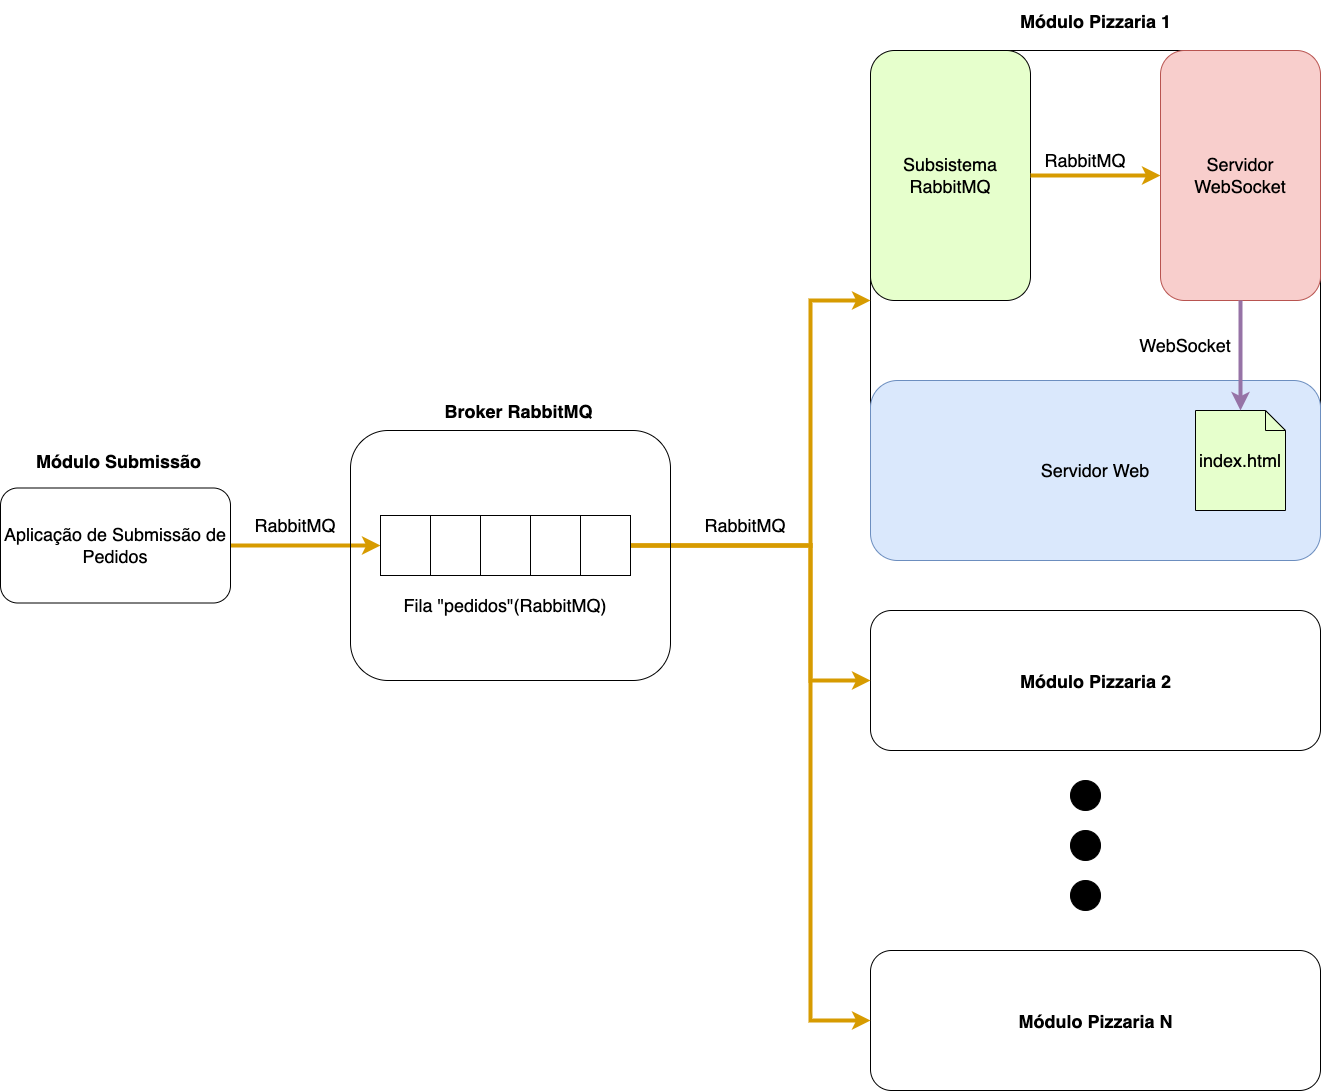
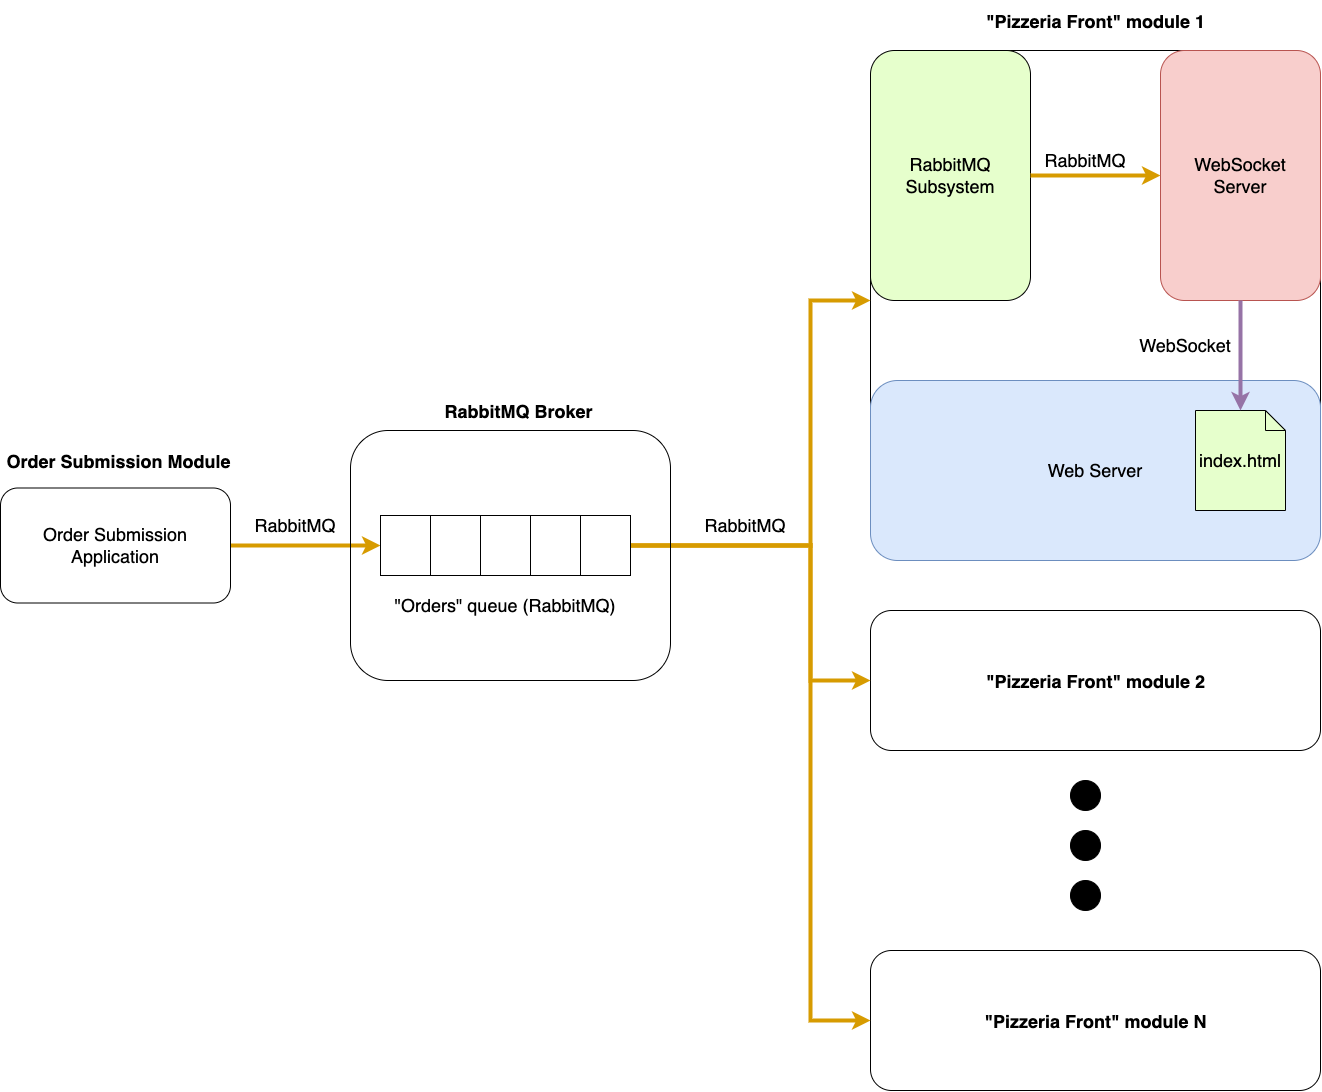
README.md translation

diff --git a/index.js b/index.js
@@ -41,7 +41,7 @@ amqp.connect(`amqp://${BROKER_ADDRESS}`, (err0, conn) => {
             const pedido = JSON.parse(msg.content.toString());
 
             console.log(pedido);
-            sendMessageToClients(wss, `ALERTA: PEDIDO DE UMA PIZZA ${pedido.sabor}, PARA ENTREGA NO ENDEREÇO ${pedido.endereco}`);
+            sendMessageToClients(wss, `ALERT: ORDER OF A PIZZA WITH FLAVOR ${pedido.sabor}, TO BE DELIVERED AT ${pedido.endereco}`);
         }, {
             noAck: true,
         });

diff --git a/public/index.html b/public/index.html
@@ -9,7 +9,7 @@
 </head>
 <body>
     <div class="container">
-        <h3>Painel de notificação de pedidos</h3>
+        <h3>Order notification panel</h3>
         <div id="alertBox" name="alertBox" class="alert-box">
             <div id="alertMsg" name="alertMsg"></div>
         </div>

diff --git a/README.md b/README.md
@@ -1,47 +1,47 @@
-# Rabbit Pizza (módulo Pizzaria)
+# Rabbit Pizza (Pizzeria Front module)
 
-![Licença](https://img.shields.io/badge/license-MIT-brightgreen)
+![License](https://img.shields.io/badge/license-MIT-brightgreen)
 
 ## Sobre
 
-<p align="center">Pequeno projeto com caráter educacional desenvolvido para apresentar os conceitos de mensageria com o *middleware* RabbitMQ para a disciplina de Sistemas Distribuídos (2021.2) do curso de Engenharia da Computação - UFMA. </p>
+<p align="center">Small educational project developed to present the concepts of messaging with RabbitMQ middleware for the Distributed Systems course (2021.2) of the Computer Engineering course - UFMA</p>
 
 
-## Tabela de conteúdos
+## Table of Contents
 =================
 
-   * [Sobre](#sobre)
-   * [Tabela de conteúdos](#tabela-de-conteúdos)
-   * [Descrição do Projeto](#-descrição-do-projeto)
-   * [Pré-requisitos](#prerequisitos)
-   * [Instalação](#-instalação)
-   * [Tecnologias](#-tecnologias)
-   * [Autor](#-autor)
+   * [About](#about)
+   * [Table of Contents](#table-of-contents)
+   * [Project Description](#-project-description)
+   * [Prerequisites](#-prerequisites)
+   * [Installation](#-installation)
+   * [Technologies](#-technologies)
+   * [Author](#-author)
 
 ---
 
-## 💻 Descrição do Projeto 
+## 💻 Project Description
 
-O projeto consiste em um *marketplace* simples de pedidos de pizzas que utiliza uma arquitetura distribuída baseada no uso do middleware de mensageria RabbitMQ, no qual há dois subsistemas principais: (a) o módulo de "Submissão de pedidos" e (b) o módulo da "Pizzaria".
+The project consists of a simple pizza restaurant *marketplace* which uses a distributed architecture based on the use of RabbitMQ messaging middleware. This system has two main subsystems: (a) the "Order Submission" module and (b) the "Pizzeria Front" module.
 
-O módulo de "Submissão" é responsável por gerar os pedidos e colocá-los em uma fila no *broker* RabbitMQ. Estes pedidos deverão ser atendidos por uma das pizzarias cadastradas no sistema (por meio do módulo "Pizzaria"), o qual é responsável por receber requisições de entrega de um dado sabor de pizza em um endereço.
+The "Order Submission" module is responsible for generating orders and placing them in a queue, managed by a RabbitMQ *broker*. These orders must be fulfilled by one of the pizzerias registered in the system. They are notified through the "Pizzeria Front" module, which is responsible for receiving delivery requests for a given pizza flavor at an address.
 
-Ao receber um pedido, o módulo "Pizzaria" então encaminha o pedido a um subsistema de notificações, que utiliza WebSockets para distribuir o alerta para todos os painéis de notificação (representados por uma página web).
+Upon receiving a request, the "Pizzeria Front" module then forwards the request to a notification subsystem, which uses WebSockets to distribute the alert to the notification panels (represented by a simple web page).
 
-Os módulos foram implementados e disponibilizados nos seguintes projetos:
-- [Rabbit Pizza (módulo Pizzaria)](https://github.com/rafaelfl/rabbitmq-front-sd-2021-2)
-- [Rabbit Pizza (módulo Submissão)](https://github.com/rafaelfl/rabbitmq-sd-2021-2)
+Both modules were implemented and made available in the following projects:
+- [Rabbit Pizza (Pizzeria Front module)](https://github.com/rafaelfl/rabbitmq-front-sd-2021-2)
+- [Rabbit Pizza (Order Submission module)](https://github.com/rafaelfl/rabbitmq-sd-2021-2)
 
-A arquitetura do sistema do sistema, conforme descrito, pode ser vista na figura a seguir.
+The architecture of the described system can be seen in the following image.
 
-![Arquitetura Geral do Rabbit Pizza](resources/rabbit_pizza.png)
+![General Architecture of Rabbit Pizza](resources/rabbit_pizza.png)
 
 ---
 
-<a name="prerequisitos"></a>
-## ⚙ Pré-requisitos
+<a name="prerequisites"></a>
+## ⚙ Prerequisites
 
-Antes de começar, você vai precisar ter instalado um *broker* RabbitMQ em algum endereço. Recomendo utilizar um *container* Docker, que pode ser instalado por meio do seguinte comando (considerando a última versão até o momento):
+Before starting, you will need a RabbitMQ *broker* installed at some address. I recommend using a Docker *container*, which can be installed using the following command (considering the latest version so far):
 
 ```
 docker run -it --rm --name rabbitmq -p 5672:5672 -p 15672:15672 rabbitmq:3.9-management
@@ -49,41 +49,54 @@ docker run -it --rm --name rabbitmq -p 5672:5672 -p 15672:15672 rabbitmq:3.9-man
 
 ---
 
-## 🚀 Instalação
+## 🚀 Installation
 
-Após executar o *broker* RabbitMQ, baixe e configure o projeto no arquivo .env, definido na variável `BROKER_ADDRESS` o endereço ip do seu broker RabbitMQ (padrão localhost) e a variável `PORT`, que define o número da porta na qual o servidor Web/WebSocket irá executar.
+After running the RabbitMQ *broker* and download this project, you must configure the project's .env file, defining, in the `BROKER_ADDRESS` and `PORT` variables, the ip address and port of your RabbitMQ broker (the default localhost:8080).
 
 ```bash
-# Clone este repositório
+# Clone this repository
 $ git clone https://github.com/rafaelfl/rabbitmq-front-sd-2021-2
 
-# Acesse a pasta do projeto no terminal/cmd
+# Access the project folder (using terminal/cmd)
 $ cd rabbitmq-front-sd-2021-2
 
-# Instale as dependências
+# Install the dependencies
 $ yarn install
 
-# Edite o arquivo .env com suas configurações
+# Edit the .env file with your configurations
 
-# Execute o módulo pizzaria
+# Run the "Pizzeria Front" module using the following syntax
 $ yarn start
 
-# O servidor web/websocket iniciará por padrão na porta:8080 e as filas serão
-# acessadas no endereço de localhost
+# The web/websocket server will start by default on port:8080 and the queues will be
+# accessed at localhost address
 
-# Acesse <http://localhost:8080> - você verá uma página inicialmente em branco -
-# ao receber um pedido de pizza uma caixa será exibida no meio da tela
+# Open <http://localhost:8080> in your browser - you will see an initially blank page -
+# when receiving a pizza order, a box will be displayed in the middle of the screen
 ```
 
-Para visualizar visualizar os pedidos, é necessário executar o módulo de submissão de pedidos disponível no repositório [Rabbit Pizza (módulo Submissão)](https://github.com/rafaelfl/rabbitmq-sd-2021-2). Ao utilizar a ferramenta para enviar pedidos de pizzas, você verá a caixa de notificação sendo exibida no seu navegador.
+To view the pizza orders, it is necessary to run the "Order Submission" module available in the repository [Rabbit Pizza (Order Submission module)](https://github.com/rafaelfl/rabbitmq-sd-2021-2). When using the tool to submit pizza orders, you will see the notification box appear in your browser.
 
-Caso você necessite reiniciar o servidor web, não esqueça de atualizar a página (já que ela se conecta ao servidor WebSocket no carregamento).
+If you need to restart the web server, don't forget to refresh the page (since it connects to the WebSocket server on page load).
+
+### Screenshots:
+
+<table>
+  <tr>
+    <td>Monitor page</td>
+    <td>Alert page</td>
+  </tr>
+  <tr>
+    <td><img src="resources/start-page.png" width=250></td>
+    <td><img src="resources/alert-page.png" width=250></td>
+  </tr>
+ </table>
 
 ---
 
-## 🛠 Tecnologias
+## 🛠 Technologies
 
-As seguintes ferramentas foram usadas na construção do projeto:
+The following technologies were used to build this project:
 
 - [Node.js](https://nodejs.org/en/)
 - [Yarn](https://yarnpkg.com/)
@@ -93,14 +106,14 @@ As seguintes ferramentas foram usadas na construção do projeto:
 
 ---
 
-## 🦸 Autor
+## 🦸 Author
 
 <a href="https://github.com/rafaelfl/">
  <img style="border-radius: 50%;" src="https://avatars.githubusercontent.com/u/31193433?v=4" width="100px;" alt=""/>
  <br />
- <sub><b>Prof. Dr. Rafael Fernandes Lopes</b></sub></a>
+ <sub><b>Prof. Rafael Fernandes Lopes, Ph.D.</b></sub></a>
 
 
-Feito com 💜 por Rafael Fernandes Lopes
+Developed with 💜 by Rafael Fernandes Lopes
 
-[![Twitter Badge](https://img.shields.io/badge/-@rafaelf_l-1ca0f1?style=flat-square&labelColor=1ca0f1&logo=twitter&logoColor=white&link=https://twitter.com/rafaelf_l)](https://twitter.com/rafaelf_l) [![Linkedin Badge](https://img.shields.io/badge/-Rafael%20Fernandes%20Lopes-blue?style=flat-square&logo=Linkedin&logoColor=white&link=https://www.linkedin.com/in/rafael-fernandes-lopes/)](https://www.linkedin.com/in/rafael-fernandes-lopes/)
+[![Linkedin Badge](https://img.shields.io/badge/-Rafael%20Fernandes%20Lopes-blue?style=flat-square&logo=Linkedin&logoColor=white&link=https://www.linkedin.com/in/rafael-fernandes-lopes/)](https://www.linkedin.com/in/rafael-fernandes-lopes/)
